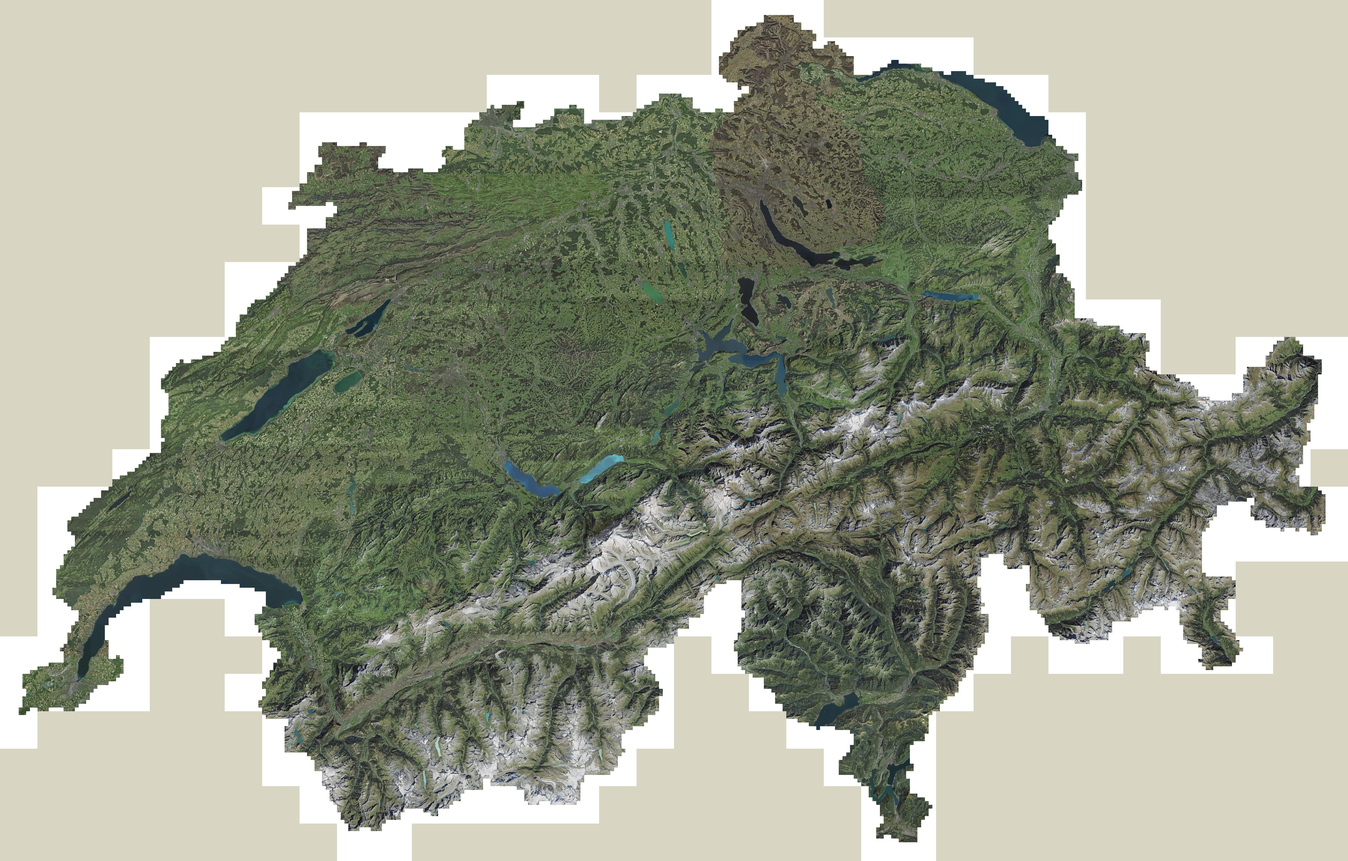
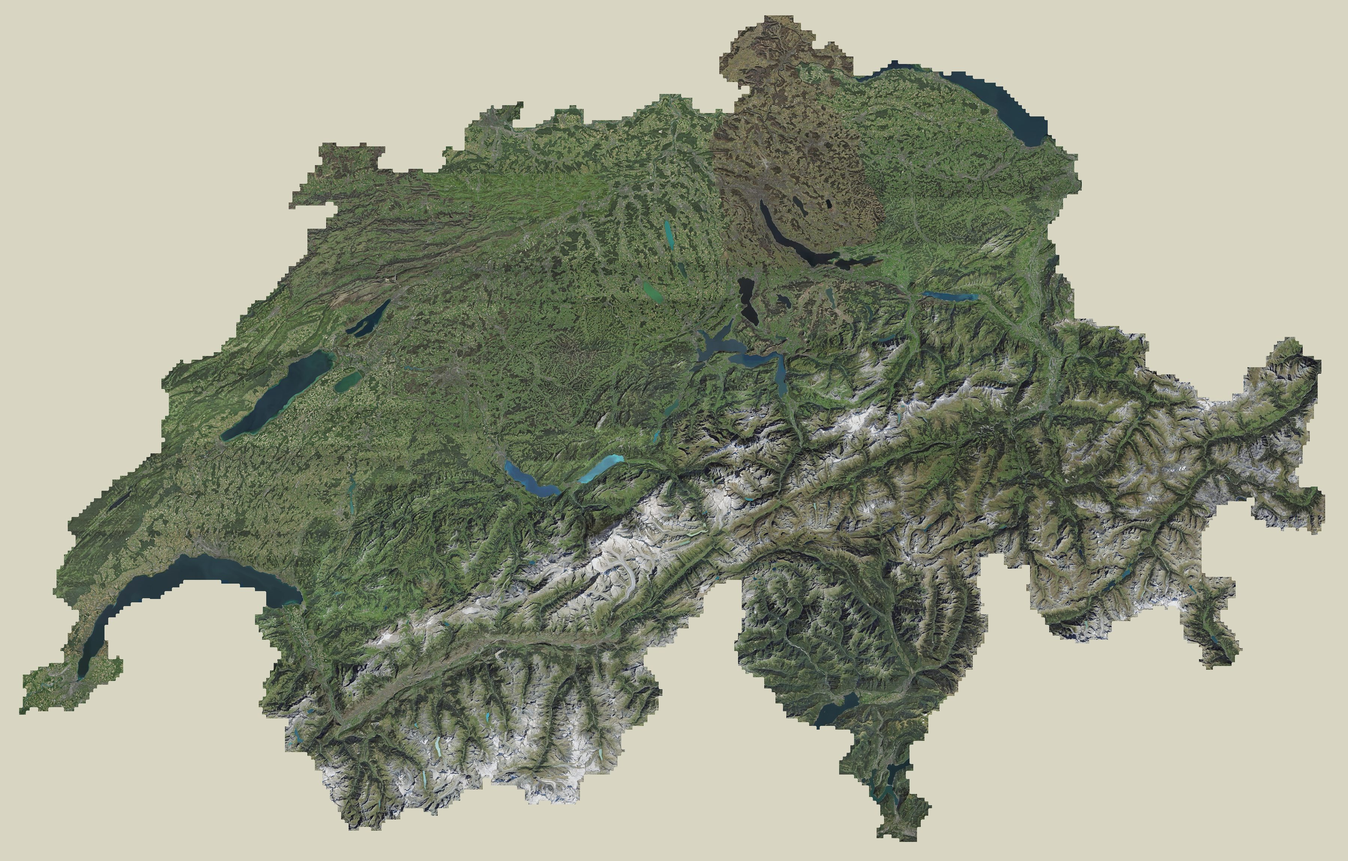
3D Schweiz: Ausland in einem einheitlichen Grundton statt Weiss und Beige
Claude-Session: https://claude.ai/code/session_01NmQeKCF7bHq44rvGBQiMKH

Changed region(s): [[0.0, 0.0, 0.8711, 0.957], [0.4978, 0.3704, 1.0, 1.0], [0.2489, 0.7409, 0.4978, 1.0]]

diff --git a/app/src/gelaende.ts b/app/src/gelaende.ts
@@ -690,6 +690,8 @@ export async function schweiz3dLaden(e0: number, n0: number, e1: number, n1: num
     Promise.all(namen.map((n) => (ix.kacheln[n][0] === null ? null
       : holenBinaer(`${DATEN_URL}${art}/${n}.jpg`)
         .then((b) => createImageBitmap(new Blob([b], { type: 'image/jpeg' }), px > 0 ? { resizeWidth: px, resizeHeight: px, resizeQuality: 'medium' } : undefined))
+        // jenseits der Grenze weiss: durchsichtig, damit überall derselbe Grundton darunter durchscheint
+        .then((b) => ohneLeeres(b, 1))
         .catch(() => null)))),
     ohneHoehen ? Promise.resolve([] as Array<Float32Array | null>)
       : Promise.all(namen.map((n) => (ix.kacheln[n][1] === null ? null : hoeheKmLesen(`${DATEN_URL}${art}/${n}.hgz`).catch(() => null)))),

diff --git a/pipeline/build_schweiz3d.py b/pipeline/build_schweiz3d.py
@@ -19,6 +19,8 @@ from PIL import Image
 ROOT = Path(__file__).resolve().parent.parent
 GELAENDE = ROOT / "data" / "gelaende"
 LUFTBILD = ROOT / "data" / "luftbild"
+# Grundton, wo es kein Luftbild gibt (wie die Leinwand der Region in komponenten/Schweiz3D.tsx, #d8d5c2)
+GRUND = (216, 213, 194)
 ZIEL = ROOT / "data" / "schweiz3d"
 GROB_M = 500
 BILD_M = 100
@@ -74,7 +76,7 @@ def main():
 
     lb = json.loads((LUFTBILD / "index.json").read_text(encoding="utf-8"))
     px = k // BILD_M
-    bild = Image.new("RGB", ((ex1 - ex0) * px, (ny1 - ny0) * px), (216, 213, 194))
+    bild = Image.new("RGB", ((ex1 - ex0) * px, (ny1 - ny0) * px), GRUND)
     jahre = set()
     for name, info in lb["kacheln"].items():
         ex, ny = map(int, name.split("_"))
@@ -83,6 +85,15 @@ def main():
         t = Image.open(LUFTBILD / f"{name}.jpg").convert("RGB").resize((px, px), Image.LANCZOS)
         bild.paste(t, ((ex - ex0) * px, (ny1 - 1 - ny) * px))
         jahre |= set(info.get("jahre", []))
+    # jenseits der Grenze hat swisstopo keine Aufnahme, die Kacheln sind dort reinweiss: in denselben Grundton wie die Stellen
+    # ganz ohne Kachel (Michael, 2026-10-22: «Kachelung mit den zwei hellgrau sieht nicht hübsch aus»), samt 2 Bildpunkten
+    # Saum, den das JPEG aufgehellt hat; Schnee und Gletscher erreichen 250 nicht in allen drei Farben
+    a = np.asarray(bild).copy()
+    leer = a.min(axis=2) >= 250
+    for _ in range(2):
+        leer = leer | np.roll(leer, 1, 0) | np.roll(leer, -1, 0) | np.roll(leer, 1, 1) | np.roll(leer, -1, 1)
+    a[leer] = GRUND
+    bild = Image.fromarray(a)
     bild.save(ZIEL / "luftbild.jpg", quality=82, optimize=True, progressive=True)
     (ZIEL / "index.json").write_text(json.dumps({
         "quelle_gelaende": ix["quelle"] + f", für die Übersicht auf {GROB_M} m gemittelt",

diff --git a/CLAUDE.md b/CLAUDE.md
@@ -259,7 +259,8 @@ data/gelaende/  Gelände der ganzen Schweiz (5 km Rand, dazu 3 km neben jeder Ba
              holen ihr Gelände ebenfalls aus den Kacheln
 data/schweiz3d/  Übersicht für das Spiel «3D Schweiz» (Michael, 2026-10-18): die Geländekacheln auf 500 m gemittelt (hoehen.hgz,
              UInt16, nicht .gz, das liefert ein Server als gepackt aus) und das Luftbild auf 100 m (luftbild.jpg), 1,8 MB
-             (pipeline/build_schweiz3d.py, nach build_gelaende und build_luftbild); in der App komponenten/Schweiz3D.tsx (#/schweiz3d):
+             (pipeline/build_schweiz3d.py, nach build_gelaende und build_luftbild; das Ausland ohne Aufnahme überall im selben Grundton #d8d5c2,
+             statt weiss und beige gekachelt, Michael, 2026-10-22); in der App komponenten/Schweiz3D.tsx (#/schweiz3d):
              vier Stufen, die Schweiz, darin ein Feld von 20 km (Gelände 50 m, Luftbild 10 m), darin eines von
              4 km (feines Gelände und Nahbild, wo es sie gibt, sonst wie die Region, mit Hinweis), darin eines von 1 km im 5-m-Raster
              (Michael, 2026-10-19: «noch eine Ausschnittsgrösse mehr im Detail»; nahLaden: die scharfe Umgebung, Gelände 2 m und Luftbild
